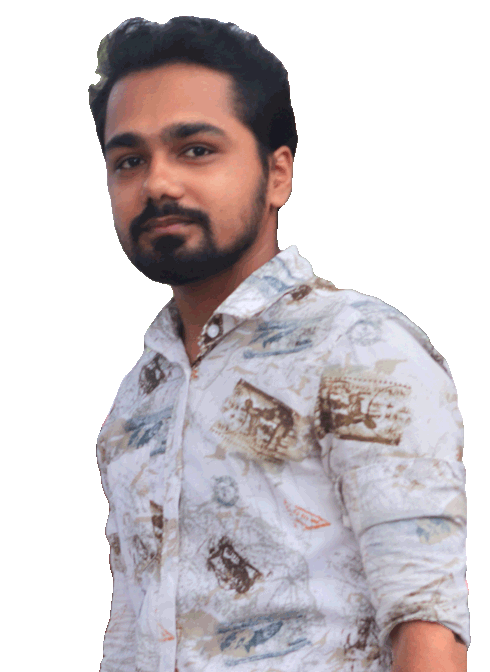
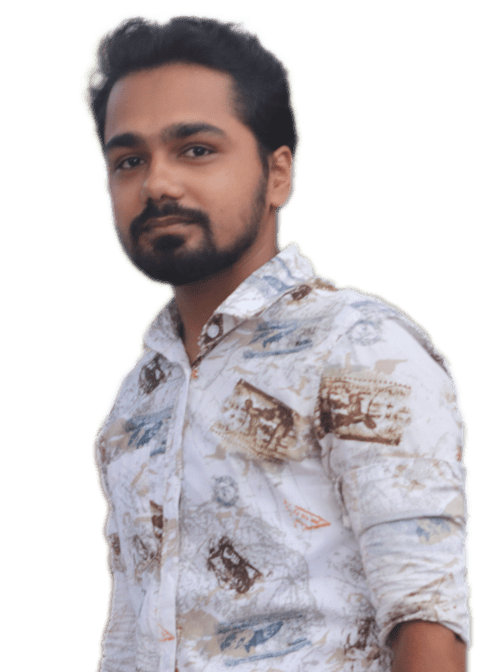
images changes

diff --git a/frontend/src/components/pages/contact/Contact.js b/frontend/src/components/pages/contact/Contact.js
@@ -1,5 +1,6 @@
 import React from "react";
 import ContactUs from "./Form";
+import LazyLoad from "react-lazyload";
 
 function Contact() {
   return (
@@ -20,16 +21,17 @@ function Contact() {
           <div className="col-lg-5">
             <div className="contact-about-area">
               <div className="thumbnail">
-                {/* <!--                                <img src="assets/images/contact/contact1.png" alt="contact-img">--> */}
-                <iframe
-                  src="https://www.google.com/maps/embed?pb=!1m18!1m12!1m3!1d1288.384878338166!2d88.95830402281295!3d24.02744201588017!2m3!1f0!2f0!3f0!3m2!1i1024!2i768!4f13.1!3m3!1m2!1s0x39fea5e989a3df29%3A0xf5251011b08f158f!2z4KaP4Ka44KaG4KawIOCmrOCni-CmsOCmueCmvuCmqA!5e0!3m2!1sbn!2sbd!4v1629847093289!5m2!1sbn!2sbd"
-                  width="460"
-                  height="285"
-                  style={{ border: "0" }}
-                  allowFullScreen=""
-                  loading="lazy"
-                  tittle="Map"
-                ></iframe>
+                <LazyLoad>
+                  <iframe
+                    src="https://www.google.com/maps/embed?pb=!1m18!1m12!1m3!1d1288.384878338166!2d88.95830402281295!3d24.02744201588017!2m3!1f0!2f0!3f0!3m2!1i1024!2i768!4f13.1!3m3!1m2!1s0x39fea5e989a3df29%3A0xf5251011b08f158f!2z4KaP4Ka44KaG4KawIOCmrOCni-CmsOCmueCmvuCmqA!5e0!3m2!1sbn!2sbd!4v1629847093289!5m2!1sbn!2sbd"
+                    width="460"
+                    height="285"
+                    style={{ border: "0" }}
+                    allowFullScreen=""
+                    loading="lazy"
+                    tittle="Map"
+                  ></iframe>
+                </LazyLoad>
               </div>
               <div className="title-area">
                 <h4 className="title">Borhan Uddin</h4>

diff --git a/frontend/src/components/router/pages/about/AboutS.js b/frontend/src/components/router/pages/about/AboutS.js
@@ -1,4 +1,5 @@
 import React from "react";
+import LazyLoad from "react-lazyload";
 
 export default function AboutS() {
   return (
@@ -127,10 +128,12 @@ export default function AboutS() {
                           <img src="images/icons/js.png" alt="Icons Images" />
                         </li>
                         <li>
-                          <img
-                            src="images/icons/react.png"
-                            alt="Icons Images"
-                          />
+                          <LazyLoad>
+                            <img
+                              src="images/icons/react.png"
+                              alt="Icons Images"
+                            />
+                          </LazyLoad>
                         </li>
                       </ul>
                     </div>

diff --git a/frontend/src/components/router/pages/header/RouterHeader.js b/frontend/src/components/router/pages/header/RouterHeader.js
@@ -48,7 +48,7 @@ export default function RouterHeader() {
             <div className="col-lg-6">
               <div className="header-left">
                 <div className="header-thumbnail">
-                  <img src="banner.jpg" alt="personal_portfolio" />
+                  <img src="images/banner.jpg" alt="personal_portfolio" />
                 </div>
                 <div className="header-info-content">
                   <h4 className="title">Borhan Uddin</h4>
